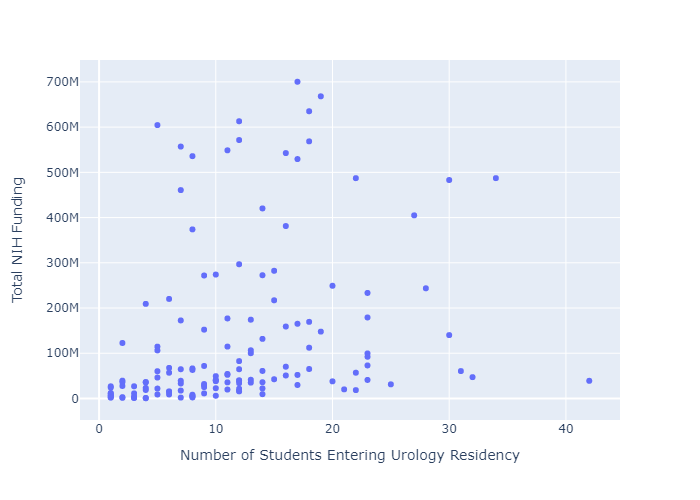
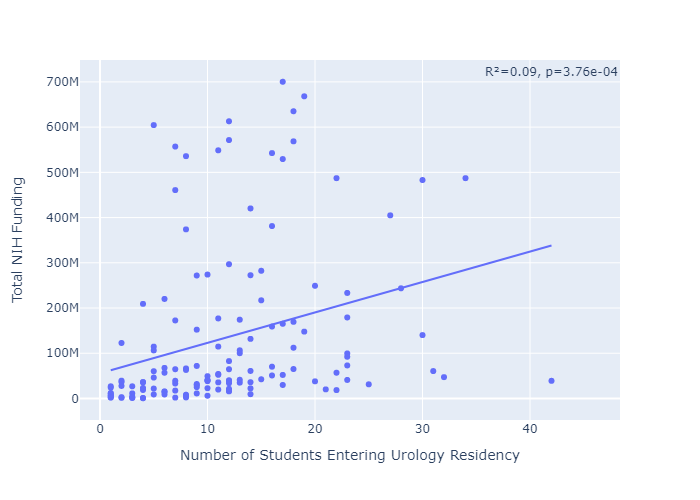
urology update 10.19

diff --git a/scripts/top_medschools.py b/scripts/top_medschools.py
@@ -7,9 +7,18 @@ import scipy.stats as stats
 import os
 import plotly.express as px
 
+def compute_pearson_correlation(x, y):
+    # Drop rows with NaN values
+    valid_indices = ~x.isna() & ~y.isna()
+    x = x[valid_indices]
+    y = y[valid_indices]
+    
+    correlation, p_value = stats.pearsonr(x, y)
+    return correlation, p_value
+
+correlations = []
 specialty = input("Enter the specialty folder name: ")
 data_path = 'data/' + specialty + '/csv'
-
 
 # Specify the file path
 programs_file = data_path + '/Programs.csv'
@@ -82,31 +91,89 @@ fig.update_layout(
 fig.write_image(output_folder + 'percentage_of_class_entering_by_tier.png')
 
 # Create a scatter plot of Residents by Ratio using Plotly
-fig = px.scatter(merged_table, x='Residents', y='Ratio', labels={'Residents': 'Number of Students Entering Urology Residency', 'Ratio': 'Percentage of Medical School Class Entering Urology Residency'})
-fig.update_layout(
-    yaxis_tickformat='.1%'
+fig = px.scatter(merged_table, x='Residents', y='Ratio', labels={'Residents': 'Number of Students Entering Urology Residency', 'Ratio': 'Percentage of Medical School Class Entering Urology Residency'}, trendline='ols')
+fig.update_layout(yaxis_tickformat='.1%')
+trendline_results = px.get_trendline_results(fig)
+r_squared = trendline_results.iloc[0]["px_fit_results"].rsquared
+correlation, p_value = compute_pearson_correlation(merged_table['Residents'], merged_table['Ratio'])
+fig.add_annotation(
+    x=max(merged_table['Residents']),
+    y=max(merged_table['Ratio']),
+    text=f'R²={r_squared:.2f}, p={p_value:.2e}',
+    showarrow=False,
+    yshift=10
 )
-
 fig.write_image(output_folder + 'number_of_class_entering_vs_percentage_of_class.png')
 
-# Create a scatterplot of Ratio by Urology Department Funding using Plotly
-fig = px.scatter(merged_table, x='Ratio', y='Urology Funding', labels={'Ratio': 'Percentage of Medical School Class Entering Urology Residency', 'Urology Funding': 'Urology Department Funding'})
-fig.update_layout(
-    xaxis_tickformat='.1%'
+correlations.append(f'Residents vs Ratio: Correlation={correlation}, p={p_value}')
+
+# Scatter plot of Ratio by Urology Department Funding
+fig = px.scatter(merged_table, x='Ratio', y='Urology Funding', labels={'Ratio': 'Percentage of Medical School Class Entering Urology Residency', 'Urology Funding': 'Urology Department Funding'}, trendline='ols')
+fig.update_layout(xaxis_tickformat='.1%')
+trendline_results = px.get_trendline_results(fig)
+r_squared = trendline_results.iloc[0]["px_fit_results"].rsquared
+correlation, p_value = compute_pearson_correlation(merged_table['Ratio'], merged_table['Urology Funding'])
+fig.add_annotation(
+    x=max(merged_table['Ratio']),
+    y=max(merged_table['Urology Funding']),
+    text=f'R²={r_squared:.2f}, p={p_value:.2e}',
+    showarrow=False,
+    yshift=10
 )
 fig.write_image(output_folder + 'percentage_of_class_entering_vs_urology_funding.png')
 
-# Create a scatterplot of Ratio by NIH Funding using Plotly
-fig = px.scatter(merged_table, x='Ratio', y='NIH Funding', labels={'Ratio': 'Percentage of Medical School Class Entering Urology Residency', 'NIH Funding': 'Total NIH Funding'})
-fig.update_layout(
-    xaxis_tickformat='.1%'
+correlations.append(f'Ratio vs Urology Funding: Correlation={correlation}, p={p_value}')
+
+# Scatter plot of Residents by Urology Department Funding
+fig = px.scatter(merged_table, x='Residents', y='Urology Funding', labels={'Residents': 'Number of Students Entering Urology Residency', 'Urology Funding': 'Urology Department Funding'}, trendline='ols')
+trendline_results = px.get_trendline_results(fig)
+r_squared = trendline_results.iloc[0]["px_fit_results"].rsquared
+correlation, p_value = compute_pearson_correlation(merged_table['Residents'], merged_table['Urology Funding'])
+fig.add_annotation(
+    x=max(merged_table['Residents']),
+    y=max(merged_table['Urology Funding']),
+    text=f'R²={r_squared:.2f}, p={p_value:.2e}',
+    showarrow=False,
+    yshift=10
+)
+fig.write_image(output_folder + 'number_of_class_entering_vs_urology_funding.png')
+
+correlations.append(f'Residents vs Urology Funding: Correlation={correlation}, p={p_value}')
+
+# Scatter plot of Ratio by NIH Funding
+fig = px.scatter(merged_table, x='Ratio', y='NIH Funding', labels={'Ratio': 'Percentage of Medical School Class Entering Urology Residency', 'NIH Funding': 'Total NIH Funding'}, trendline='ols')
+fig.update_layout(xaxis_tickformat='.1%')
+trendline_results = px.get_trendline_results(fig)
+r_squared = trendline_results.iloc[0]["px_fit_results"].rsquared
+correlation, p_value = compute_pearson_correlation(merged_table['Ratio'], merged_table['NIH Funding'])
+fig.add_annotation(
+    x=max(merged_table['Ratio']),
+    y=max(merged_table['NIH Funding']),
+    text=f'R²={r_squared:.2f}, p={p_value:.2e}',
+    showarrow=False,
+    yshift=10
 )
 fig.write_image(output_folder + 'percentage_of_class_entering_vs_nih_funding.png')
 
-# Create a scatterplot of Residents by NIH Funding using Plotly
-fig = px.scatter(merged_table, x='Residents', y='NIH Funding', labels={'Residents': 'Number of Students Entering Urology Residency', 'NIH Funding': 'Total NIH Funding'})
+correlations.append(f'Ratio vs NIH Funding: Correlation={correlation}, p={p_value}')
+
+# Scatter plot of Residents by NIH Funding
+fig = px.scatter(merged_table, x='Residents', y='NIH Funding', labels={'Residents': 'Number of Students Entering Urology Residency', 'NIH Funding': 'Total NIH Funding'}, trendline='ols')
+trendline_results = px.get_trendline_results(fig)
+r_squared = trendline_results.iloc[0]["px_fit_results"].rsquared
+correlation, p_value = compute_pearson_correlation(merged_table['Residents'], merged_table['NIH Funding'])
+fig.add_annotation(
+    x=max(merged_table['Residents']),
+    y=max(merged_table['NIH Funding']),
+    text=f'R²={r_squared:.2f}, p={p_value:.2e}',
+    showarrow=False,
+    yshift=10
+)
 fig.write_image(output_folder + 'number_of_class_entering_vs_nih_funding.png')
 
+correlations.append(f'Residents vs NIH Funding: Correlation={correlation}, p={p_value}')
 
-
-
+# Save correlations to a .txt file
+with open(output_folder + 'correlations.txt', 'w') as f:
+    for line in correlations:
+        f.write(line + '\n')
